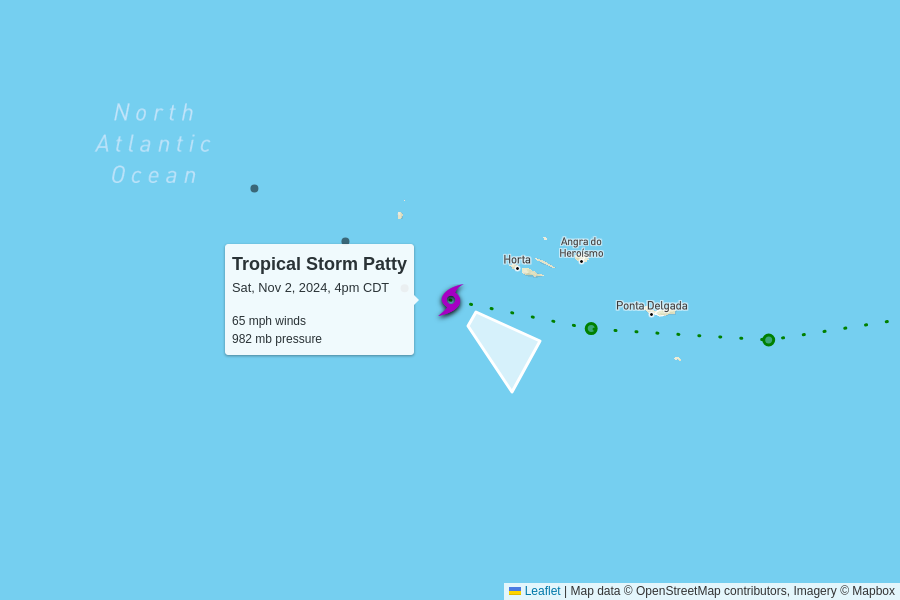
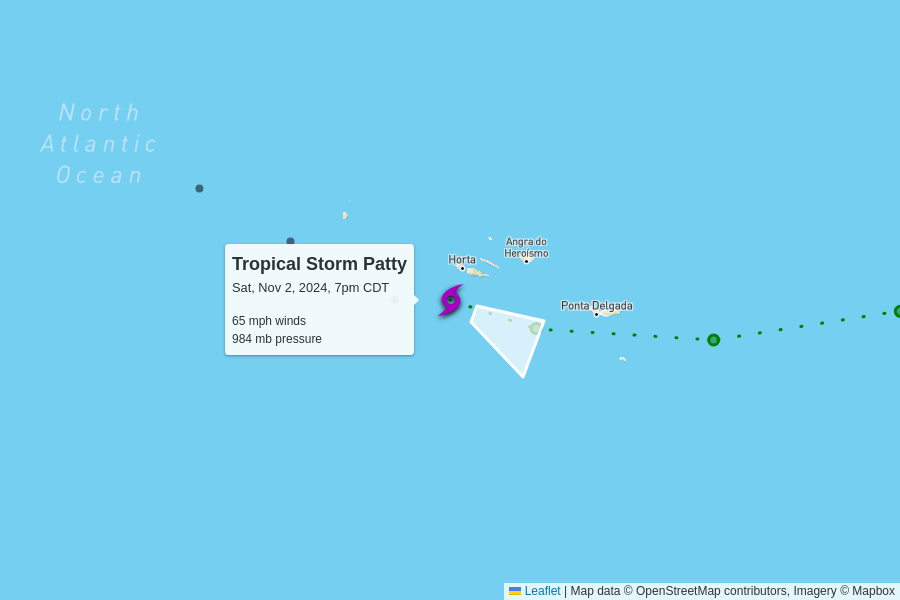
automatic update

diff --git a/docs/index.html b/docs/index.html
@@ -102,7 +102,7 @@
         <td colspan="6" class="storm category-0" >
           <h2>
             Tropical Storm Patty
-            <p class="updated">last updated <span data-time>2024-11-02T21:00:00.000Z</span></p>
+            <p class="updated">last updated <span data-time>2024-11-03T00:00:00.000Z</span></p>
           </h2>
         </td>
       </tr>
@@ -118,11 +118,11 @@
       <tr>
         <td class="spacer"></td>
         <td>65 mph<br>0 mph since last update</td>
-        <td>982 mb<br>0 mb since last update</td>
+        <td>984 mb<br>+2 mb since last update</td>
         <td>
-          18 mph to the southeast
+          18 mph to the east-southeast
           <br/>
-          <span style="display: inline-block; font-size: 1.5em; transform: rotate(125deg);">↑</span>
+          <span style="display: inline-block; font-size: 1.5em; transform: rotate(115deg);">↑</span>
         </td>
         <td><a href="https://raw.githubusercontent.com/mgwalker/atlantic-hurricanes/main/data/csv/AL172024.csv">AL172024.csv</a></td>
         <td><a href="https://www.nhc.noaa.gov/archive/2024/PATTY.shtml?">NHC advisories</a></td>
